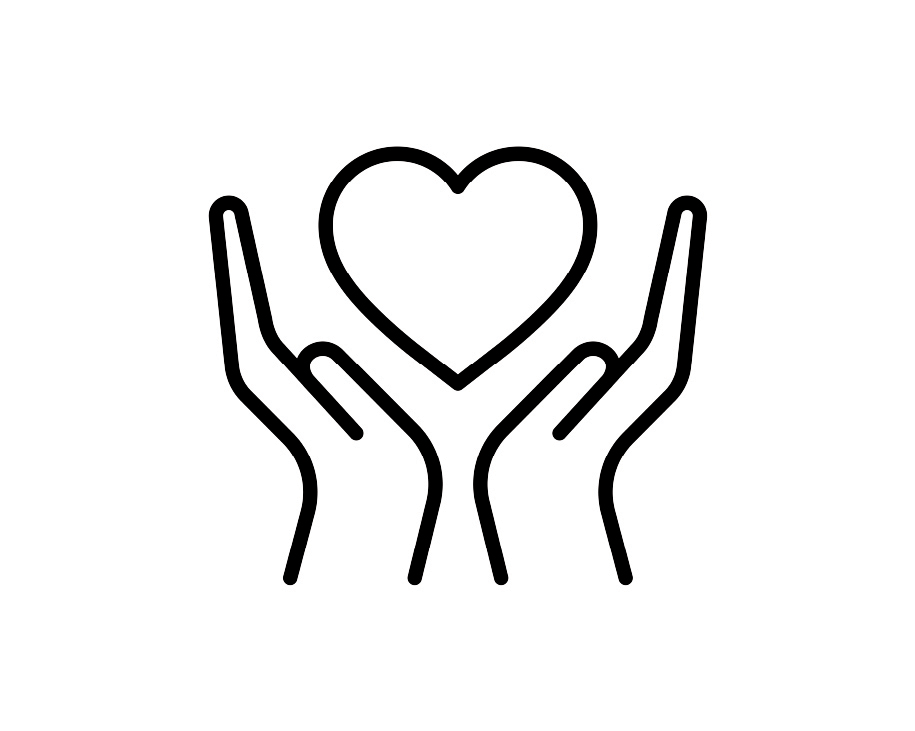
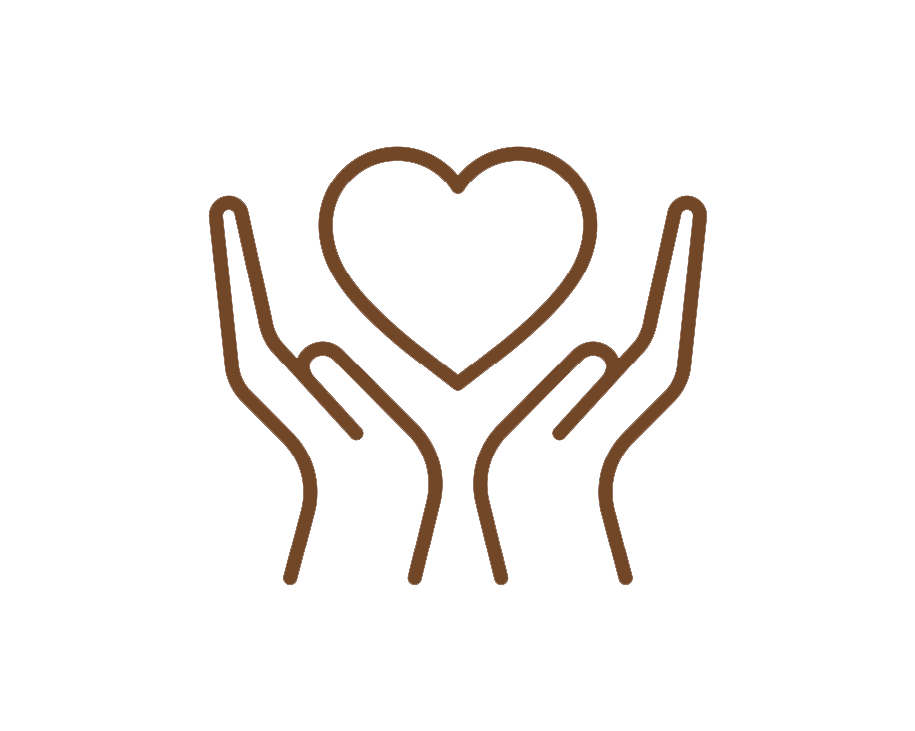
Add files via upload

Changed region(s): [[0.2142, 0.2709, 0.4896, 0.8126], [0.5202, 0.2709, 0.7956, 0.8126], [0.3366, 0.1806, 0.6732, 0.5417]]

diff --git a/products.html b/products.html
@@ -44,7 +44,7 @@
     .page-desc { font-size:14px; color:rgba(196,206,202,0.65); font-weight:300; line-height:1.8; }
 
     /* MAIN */
-    .main { padding:56px 64px; }
+    .main { padding:32px 64px; }
 
     /* STEP LABEL */
     .step-label { display:flex; align-items:center; gap:12px; margin-bottom:20px; }
@@ -86,7 +86,7 @@
     /* 바디 */
     .item-body { padding:14px; }
     .item-sub { font-family:'Montserrat',sans-serif; font-size:8px; font-weight:600; letter-spacing:1.5px; color:var(--gm); margin-bottom:4px; }
-    .item-name { font-family:'Noto Sans KR',sans-serif; font-size:13px; font-weight:700; color:var(--text-dark); margin-bottom:4px; }
+    .item-name { font-family:'Noto Sans KR',sans-serif; font-size:15px; font-weight:700; color:var(--text-dark); margin-bottom:4px; }
     .item-desc { font-size:11px; color:var(--text-muted); line-height:1.6; font-weight:300; }
     .item-count { font-family:'Montserrat',sans-serif; font-size:9px; color:var(--gm); letter-spacing:1px; margin-top:4px; }
     .item-soon { display:inline-block; font-family:'Montserrat',sans-serif; font-size:8px; font-weight:700; letter-spacing:2px; background:var(--gm-xlight); color:var(--gm-dark); padding:3px 9px; border-radius:10px; margin-top:6px; }
@@ -140,7 +140,7 @@
     .footer-social-icon svg { width:16px; height:16px; }
 
     /* DONATION SECTION */
-    .donation { background:var(--cream); padding:48px 48px; border-top:1px solid rgba(138,153,146,0.15); }
+    .donation { background:var(--cream); padding:32px 48px; border-top:1px solid rgba(138,153,146,0.15); }
     .donation-inner { max-width:1200px; margin:0 auto; display:flex; align-items:center; justify-content:center; gap:64px; flex-wrap:wrap; }
     .donation-badge { display:flex; align-items:center; gap:24px; }
     .donation-dog-img { width:80px; height:80px; object-fit:contain; flex-shrink:0; }
